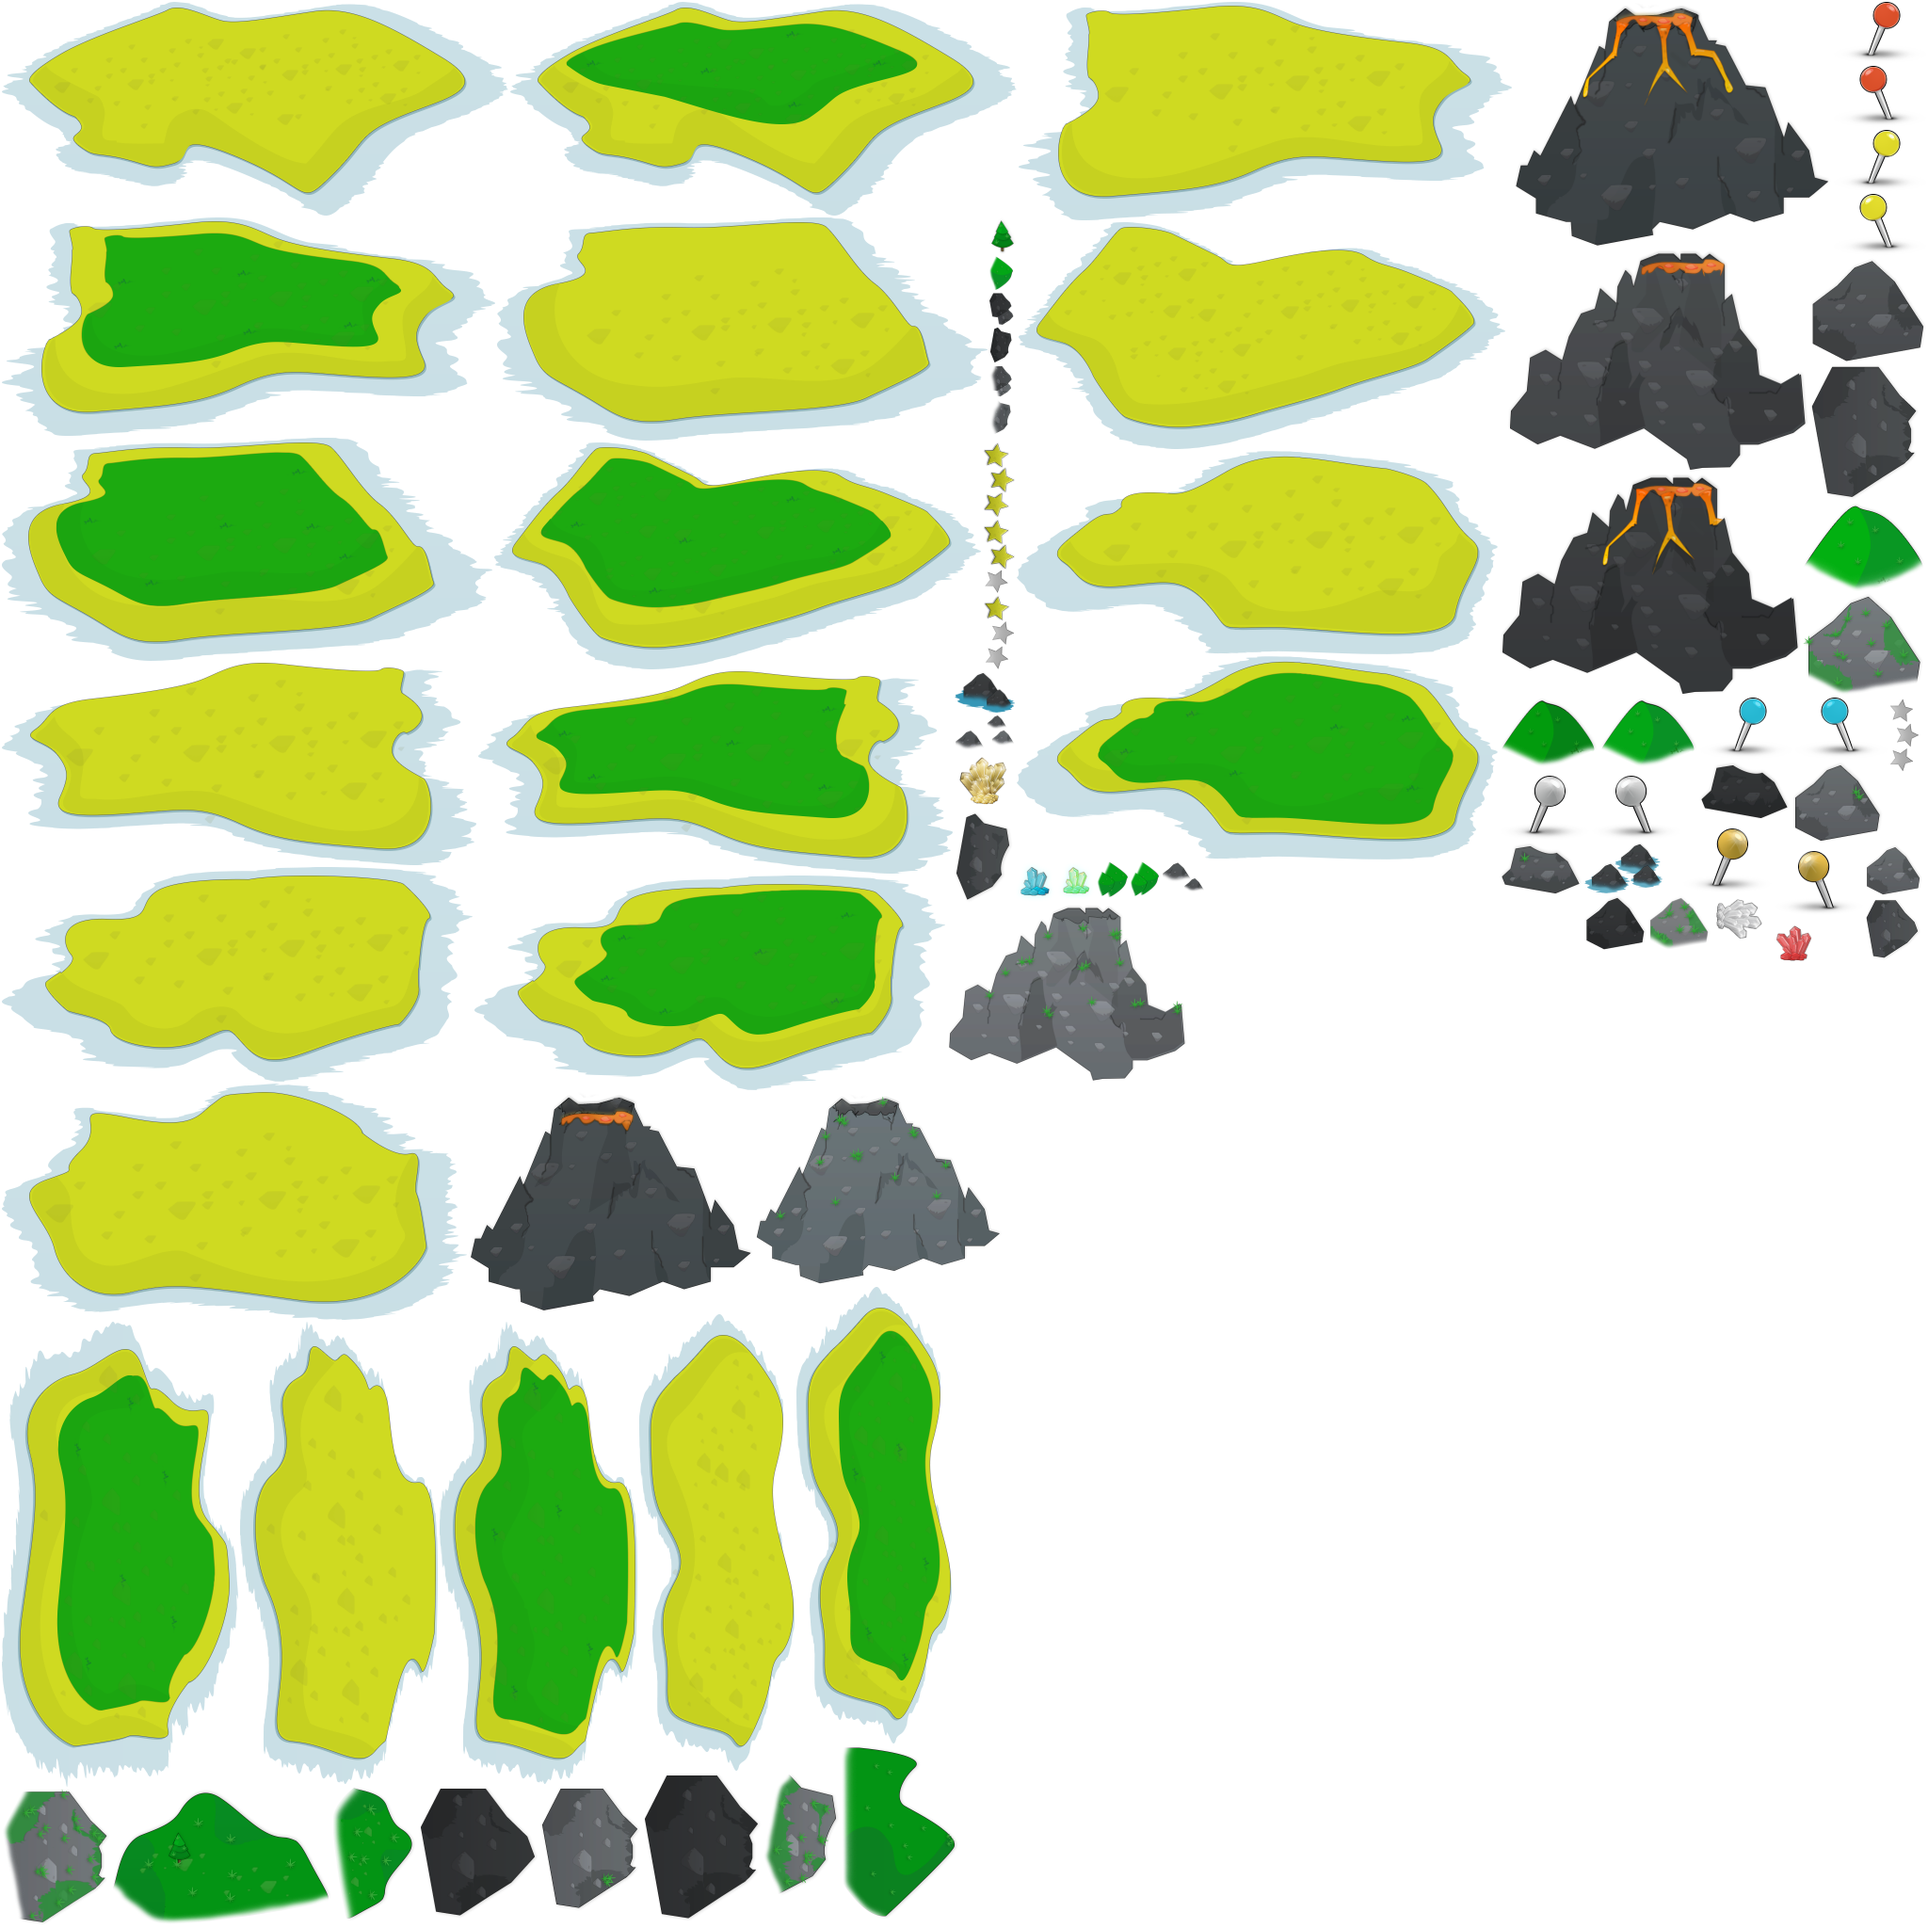
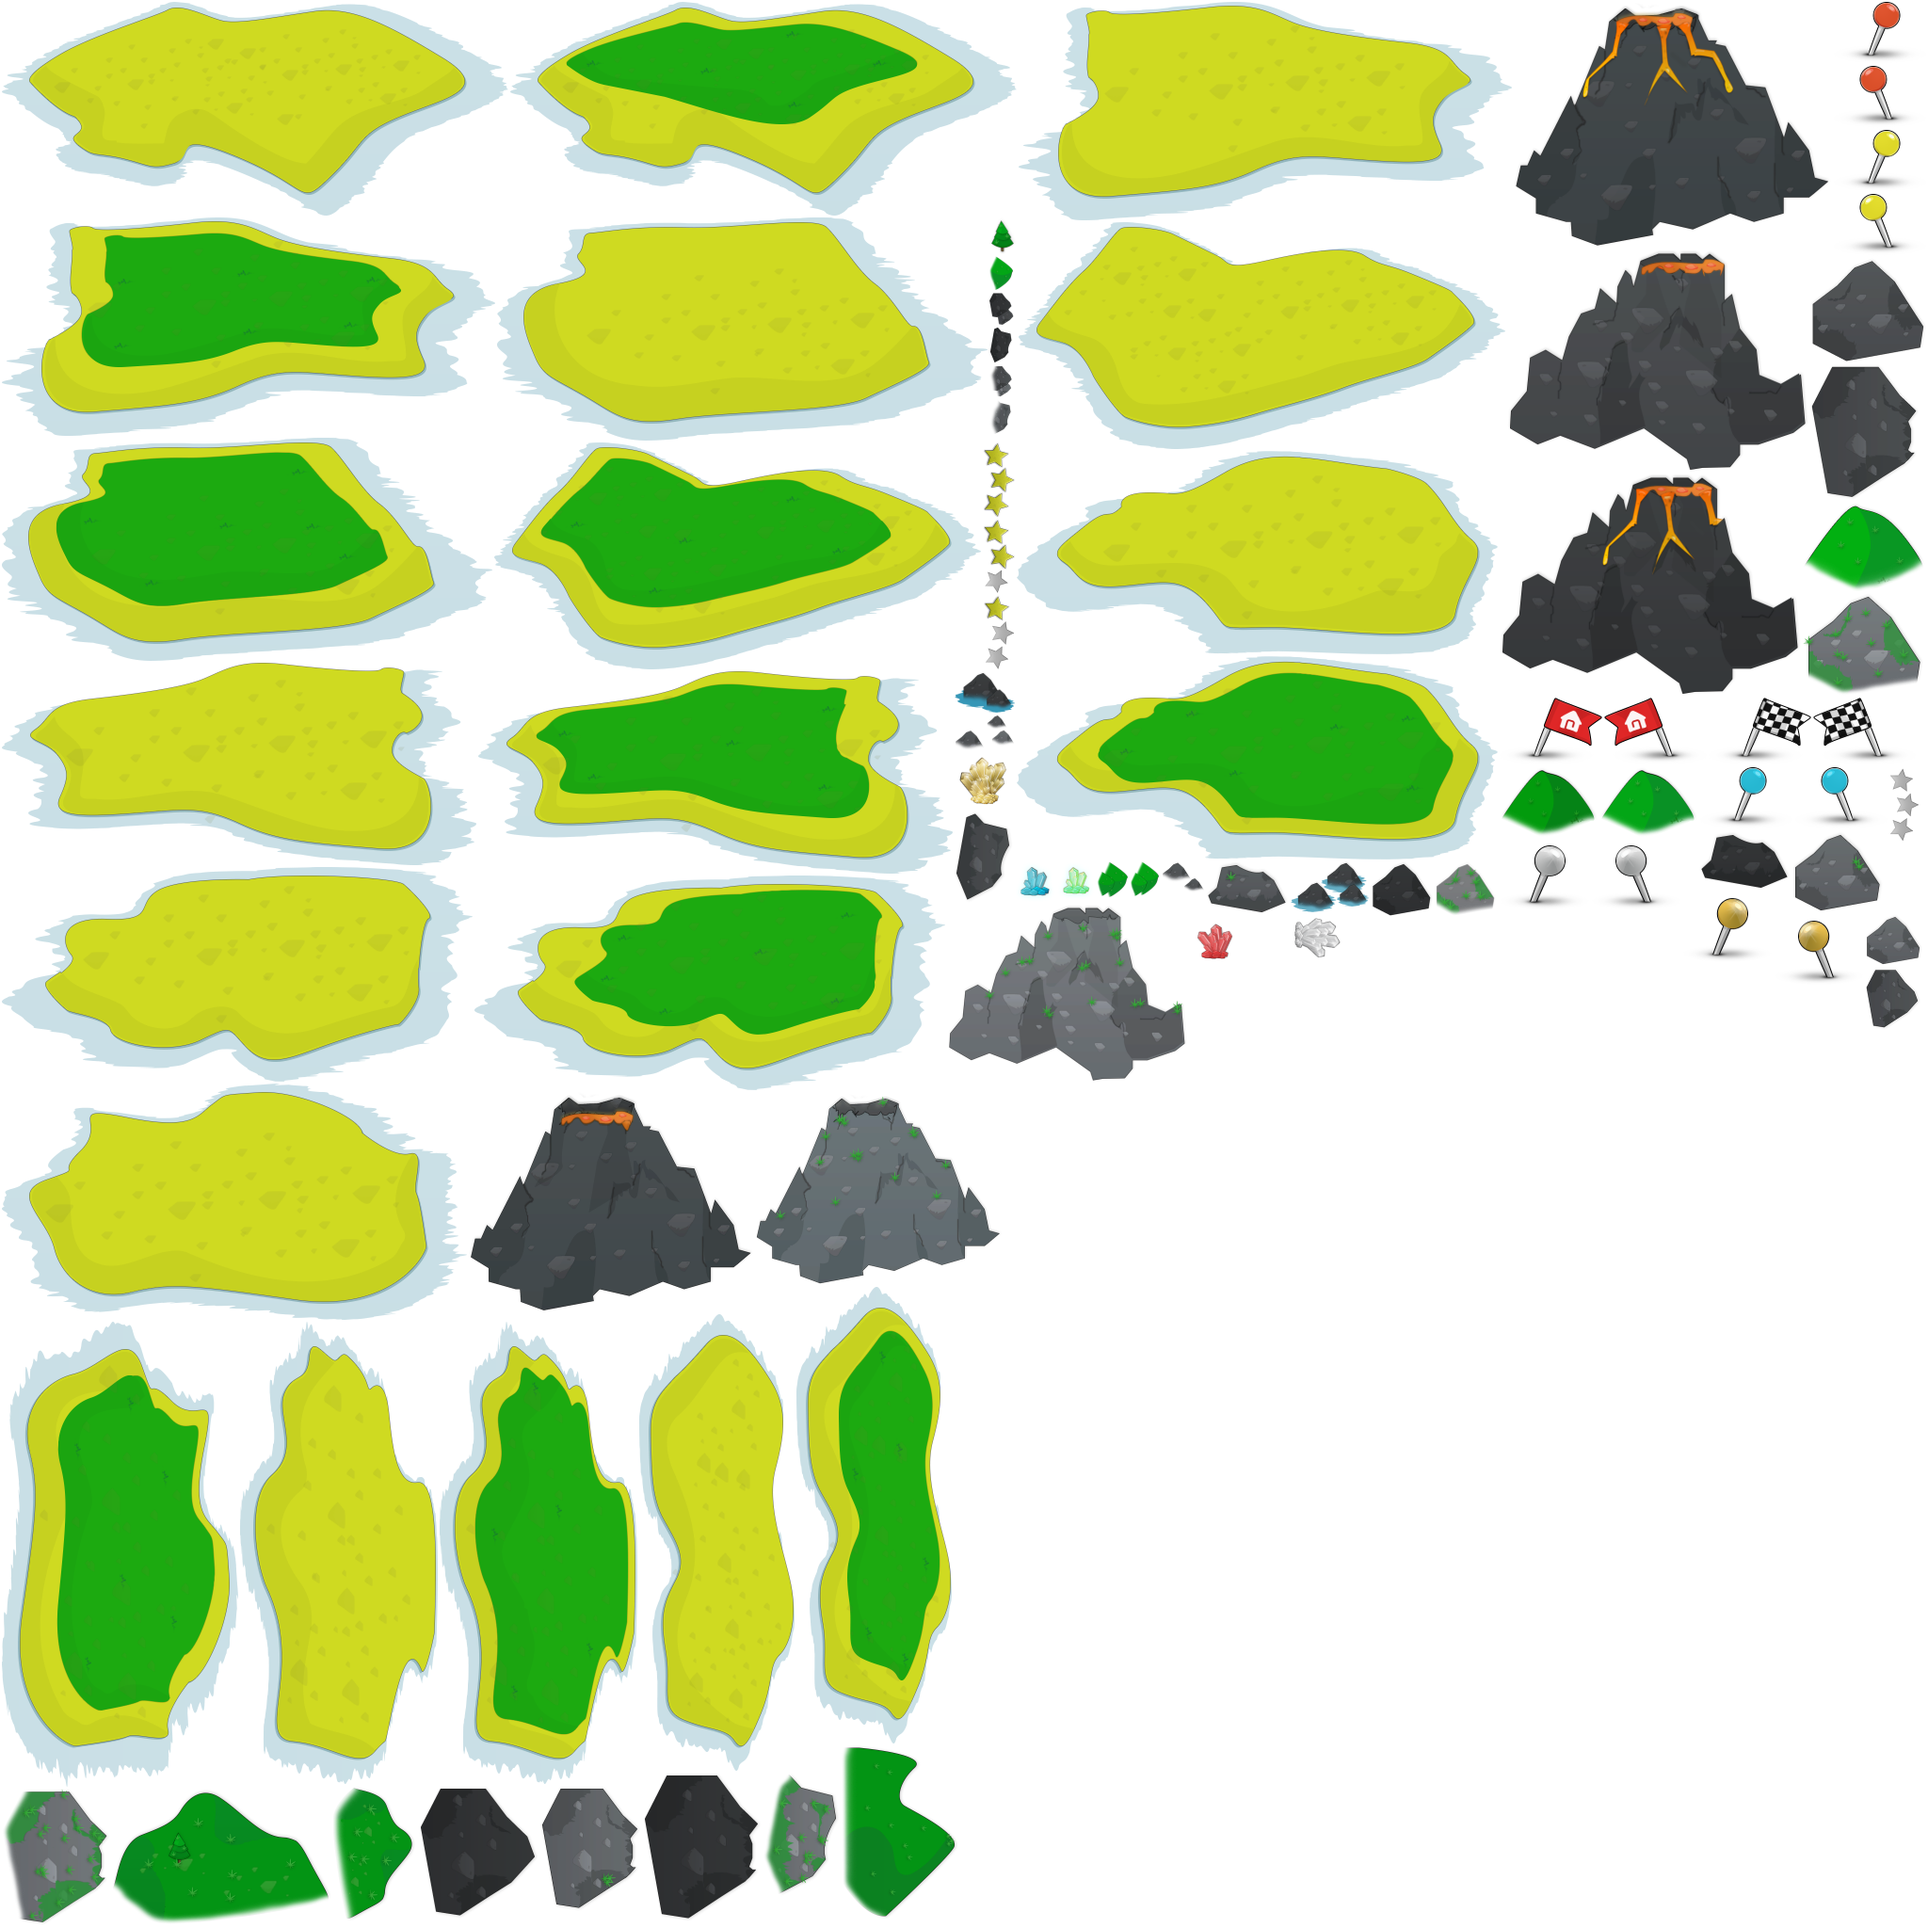
manually dumping all assignment & filter stuff to this branch -- theoretically ready (no client-side fixes on filters)

Changed region(s): [[0.625, 0.3438, 1.0, 0.5312]]

diff --git a/belugapad/JMap.m b/belugapad/JMap.m
@@ -285,7 +285,11 @@ typedef enum {
         [mapLayer setPosition:ccp(512-np.x, 384-np.y)];
     }
     
+    //build search index
     [self buildSearchIndex];
+    
+    //show filter button
+    filterButtonSprite.visible=(filterTotalFlagCount>0);
     
     //any final node-based visual setup
     [gw handleMessage:kSGsetVisualStateAfterBuildUp];
@@ -345,6 +349,11 @@ typedef enum {
     CCSprite *topsprite=[CCSprite spriteWithFile:BUNDLE_FULL_PATH(@"/images/jmap/HR_HeaderBar_JMAP.png")];
     [topsprite setPosition:ccp(cx, 2*cy-(65.0f/2))];
     [foreLayer addChild:topsprite];
+    
+    //filter button
+    filterButtonSprite=[CCSprite spriteWithFile:BUNDLE_FULL_PATH(@"/images/jmap/flag_button_orange.png")];
+    [filterButtonSprite setPosition:ccp(cx+200, 2*cy-(65.0f/2))];
+    [foreLayer addChild:filterButtonSprite];
 }
 
 - (void)createAllBackgroundTileSprites
@@ -747,6 +756,7 @@ typedef enum {
 {
     if(searchNodes)[searchNodes release];
     searchNodes=[[NSMutableArray alloc] init];
+    filterTotalFlagCount=0;
     
     for(id go in [gw AllGameObjects])
     {
@@ -756,13 +766,18 @@ typedef enum {
     
             //build search test
             NSString *searchBuild=mgo.UserVisibleString;
+            int flagCount=0;
             
             for(SGJmapNode *node in mgo.ChildNodes)
             {
                 searchBuild=[NSString stringWithFormat:@"%@ %@", searchBuild, node.UserVisibleString];
+                flagCount+=[node.ustate.assignmentFlags count];
+                filterTotalFlagCount+=flagCount;
             }
             
             mgo.searchMatchString=searchBuild;
+            mgo.searchFlagCount=flagCount;
+            
             
             //add to source for list
             [searchNodes addObject:mgo];
@@ -1112,6 +1127,12 @@ typedef enum {
         
         return;
     }
+    
+    if(CGRectContainsPoint(filterButtonSprite.boundingBox, l))
+    {
+        if(filterTotalFlagCount>0)
+            [self pressedFilterButton];
+    }
 
     else {
 
@@ -1442,38 +1463,72 @@ typedef enum {
 
 -(void)searchBarTextDidBeginEditing:(UISearchBar *)searchBar
 {
+    [self updateSearchFilteredNodes:@""];
+    [ac.searchList reloadData];
+    
     [[CCDirector sharedDirector].view addSubview:ac.searchList];
 }
 
 -(void)searchBarTextDidEndEditing:(UISearchBar *)searchBar
 {
+    filteredToAssignedNodes=NO;
+    showingFilter=NO;
     [ac.searchList removeFromSuperview];
 }
 
 -(void)searchBar:(UISearchBar*)searchBar textDidChange:(NSString*)text
 {
-    if(text.length == 0)
+    isFiltered=YES;
+    [self updateSearchFilteredNodes:text];
+    [ac.searchList reloadData];
+    
+//    if(text.length == 0)
+//    {
+//        isFiltered = NO;
+//    }
+//    else
+//    {
+//        isFiltered = YES;
+//    }
+//    
+//    [ac.searchList reloadData];
+}
+
+-(void)updateSearchFilteredNodes:(NSString*)text
+{
+    if(filteredNodes) [filteredNodes release];
+    filteredNodes = [[NSMutableArray alloc] init];
+    isFiltered=YES;
+    
+    for (id<CouchDerived, Searchable, NSObject> node in searchNodes)
     {
-        isFiltered = NO;
-    }
-    else
-    {
-        isFiltered = YES;
-        if(filteredNodes) [filteredNodes release];
-        filteredNodes = [[NSMutableArray alloc] init];
+        NSRange searchRange = [node.searchMatchString rangeOfString:text options:NSCaseInsensitiveSearch];
+        NSRange idRange = [node._id rangeOfString:text options:NSCaseInsensitiveSearch];
         
-        for (id<CouchDerived, Searchable> node in searchNodes)
+        //search mastery and regular nodes
+        if((searchRange.location != NSNotFound || idRange.location != NSNotFound || [text isEqualToString:@""]) &&
+           (!filteredToAssignedNodes || node.searchFlagCount>0))
+            
         {
-            NSRange searchRange = [node.searchMatchString rangeOfString:text options:NSCaseInsensitiveSearch];
-            NSRange idRange = [node._id rangeOfString:text options:NSCaseInsensitiveSearch];
-            if(searchRange.location != NSNotFound || idRange.location != NSNotFound)
-            {
-                [filteredNodes addObject:node];
-            }
+            [filteredNodes addObject:node];
         }
     }
     
-    [ac.searchList reloadData];
+}
+
+-(void)pressedFilterButton
+{
+    if(showingFilter)
+    {
+        [ac.searchBar resignFirstResponder];
+    }
+    else
+    {
+        filteredToAssignedNodes=YES;
+        [ac.searchBar becomeFirstResponder];
+    }
+    
+    showingFilter=!showingFilter;
 }
 
 -(void)tableView:(UITableView *)tableView didSelectRowAtIndexPath:(NSIndexPath *)indexPath

diff --git a/belugapad/SGJmapNodeRender.m b/belugapad/SGJmapNodeRender.m
@@ -100,25 +100,46 @@
 {
     SGJmapNode *pn=(SGJmapNode*)ParentGO;
     
-    if(pn.EnabledAndComplete)
+    bool isHomework=NO;
+    bool isDoNow=NO;
+    
+    if([pn.ustate.assignmentFlags containsObject:@"homework"])
+        isHomework=YES;
+    
+    if([pn.ustate.assignmentFlags containsObject:@"doNow"])
+        isDoNow=YES;
+    
+    if(isHomework || isDoNow)
     {
-        //should be blue
-        nodeSprite=[CCSprite spriteWithSpriteFrameName:@"Node_Complete_Right.png"];
+        //homework takes priority
+        if(isHomework)
+            nodeSprite=[CCSprite spriteWithSpriteFrameName:@"homework_flag_right.png"];
+        else
+            nodeSprite=[CCSprite spriteWithSpriteFrameName:@"checkerd_flag_right.png"];
     }
-    else if (pn.Attempted)
-    {
-        //should be yellow
-        nodeSprite=[CCSprite spriteWithSpriteFrameName:@"Node_Attempted_Right.png"];
-    }
-    else if(pn.MasteryNode.PrereqPercentage>0)
-    {
-        //should be red
-        nodeSprite=[CCSprite spriteWithSpriteFrameName:@"Node_Incomplete_Right.png"];
-    }
+    
     else
     {
-        //should be a stalk / stump
-        nodeSprite=[CCSprite spriteWithSpriteFrameName:@"Node_Incomplete_Right.png"];
+        if(pn.EnabledAndComplete)
+        {
+            //should be blue
+            nodeSprite=[CCSprite spriteWithSpriteFrameName:@"Node_Complete_Right.png"];
+        }
+        else if (pn.Attempted)
+        {
+            //should be yellow
+            nodeSprite=[CCSprite spriteWithSpriteFrameName:@"Node_Attempted_Right.png"];
+        }
+        else if(pn.MasteryNode.PrereqPercentage>0)
+        {
+            //should be red
+            nodeSprite=[CCSprite spriteWithSpriteFrameName:@"Node_Incomplete_Right.png"];
+        }
+        else
+        {
+            //should be a stalk / stump
+            nodeSprite=[CCSprite spriteWithSpriteFrameName:@"Node_Incomplete_Right.png"];
+        }
     }
     
     CGPoint offset=ccp(nodeSprite.contentSize.width / 2.0f, -nodeSprite.contentSize.height / 2.0f);

diff --git a/belugapad/SGJmapObjectProtocols.h b/belugapad/SGJmapObjectProtocols.h
@@ -10,6 +10,7 @@
 
 @class SGJmapProximityEval;
 @class SGJmapNodeSelect;
+@class UserNodeState;
 
 
 @protocol Transform
@@ -66,6 +67,7 @@
 
 @protocol Searchable
     @property (retain) NSString *searchMatchString;
+    @property int searchFlagCount;
 @end
 
 @protocol Completable

diff --git a/belugapad/JMap.h b/belugapad/JMap.h
@@ -41,6 +41,10 @@
     NSMutableArray *searchNodes;
     NSMutableArray *filteredNodes;
     BOOL isFiltered;
+    BOOL filteredToAssignedNodes;
+    BOOL showingFilter;
+    CCSprite *filterButtonSprite;
+    int filterTotalFlagCount;
     
     AppController *ac;
     

diff --git a/belugapad/SGJmapMasteryNode.m b/belugapad/SGJmapMasteryNode.m
@@ -30,7 +30,7 @@
 @synthesize Selected, NodeSelectComponent, HitProximity, HitProximitySign;
 
 //searchable
-@synthesize searchMatchString;
+@synthesize searchMatchString, searchFlagCount;
 
 @synthesize MasteryPinPosition;
 
